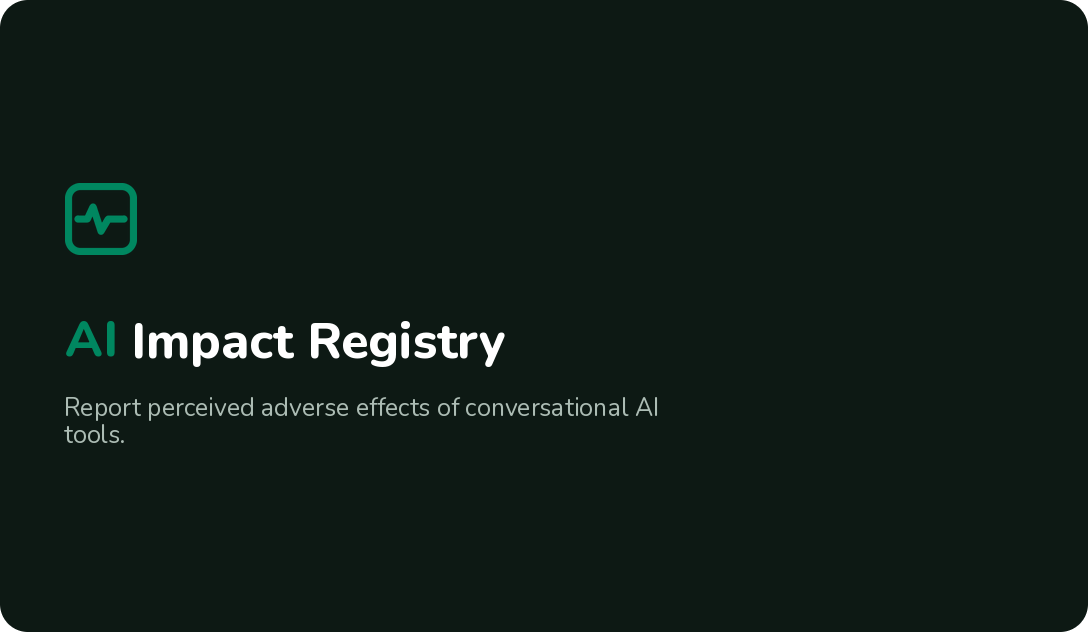
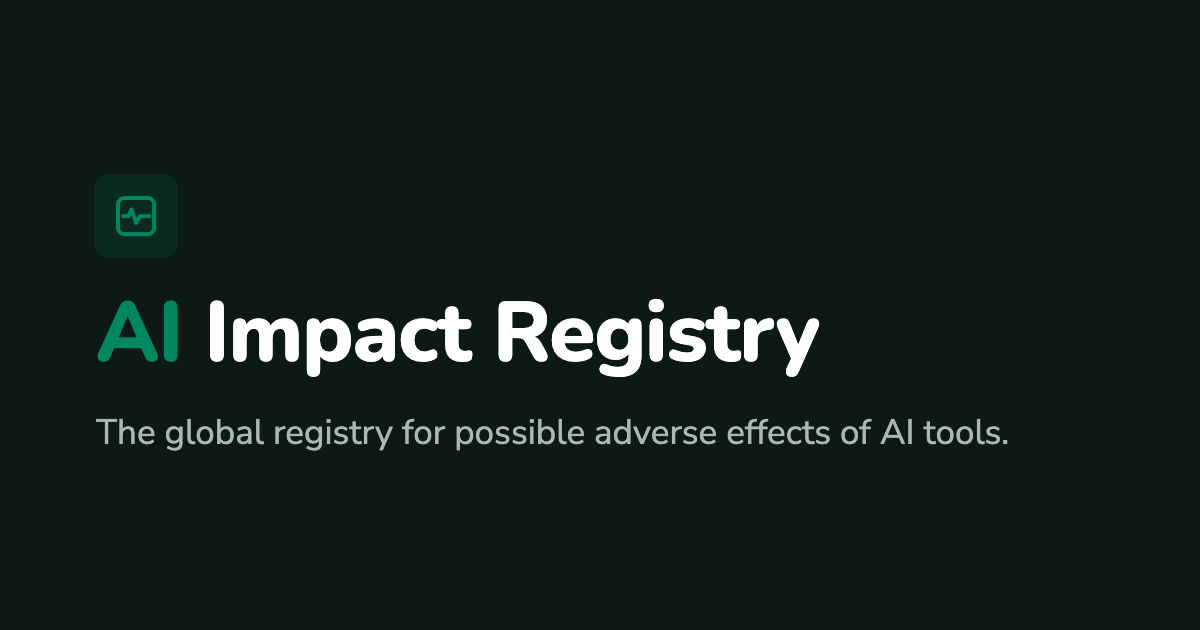
feat: crisis notice atop home hero; regenerate OG image
- Show the CrisisHelpline notice at the top of the home hero, replacing the empty gap
- Regenerate opengraph images (1200x630, solid bg) with the 'possible adverse effects' tagline; update ogImage size

diff --git a/src/app/page.tsx b/src/app/page.tsx
@@ -7,6 +7,7 @@ import {
 } from "@/components/Icons";
 import { content } from "@/content.config";
 import { PartnerLogos } from "@/components/PartnerLogos";
+import { CrisisHelpline } from "@/components/CrisisHelpline";
 import { RichLine } from "@/content/RichText";
 import type { Span } from "@/content/rich";
 import type { Metadata } from "next";
@@ -39,8 +40,12 @@ export default function HomePage() {
       <section className="relative isolate overflow-hidden border-b border-line bg-canvas">
         <HeroTrace />
 
-        <div className="mx-auto max-w-3xl px-4 pt-20 pb-24 text-center sm:pt-24">
-          <h1 className="font-display mt-4 text-4xl leading-[1.1] font-extrabold tracking-tight text-balance sm:text-5xl">
+        <div className="mx-auto max-w-3xl px-4 pt-6 pb-24 text-center sm:pt-8">
+          <aside className="notice mx-auto max-w-2xl border-line bg-surface text-left text-ink-soft">
+            <CrisisHelpline variant="notice" />
+          </aside>
+
+          <h1 className="font-display mt-12 text-4xl leading-[1.1] font-extrabold tracking-tight text-balance sm:text-5xl">
             {hero.title}
           </h1>
 

diff --git a/src/site.config.ts b/src/site.config.ts
@@ -98,8 +98,8 @@ export const siteConfig = {
   // name suggests - OG consumers pre-allocate from these, so they must be true.
   ogImage: {
     url: brandAsset(defaultBrandKey, defaultBrandTheme, "opengraph-1200x630.png"),
-    width: 1088,
-    height: 632,
+    width: 1200,
+    height: 630,
   },
   /** Favicon files with their actual dimensions (also not what the names imply). */
   favicons: [
